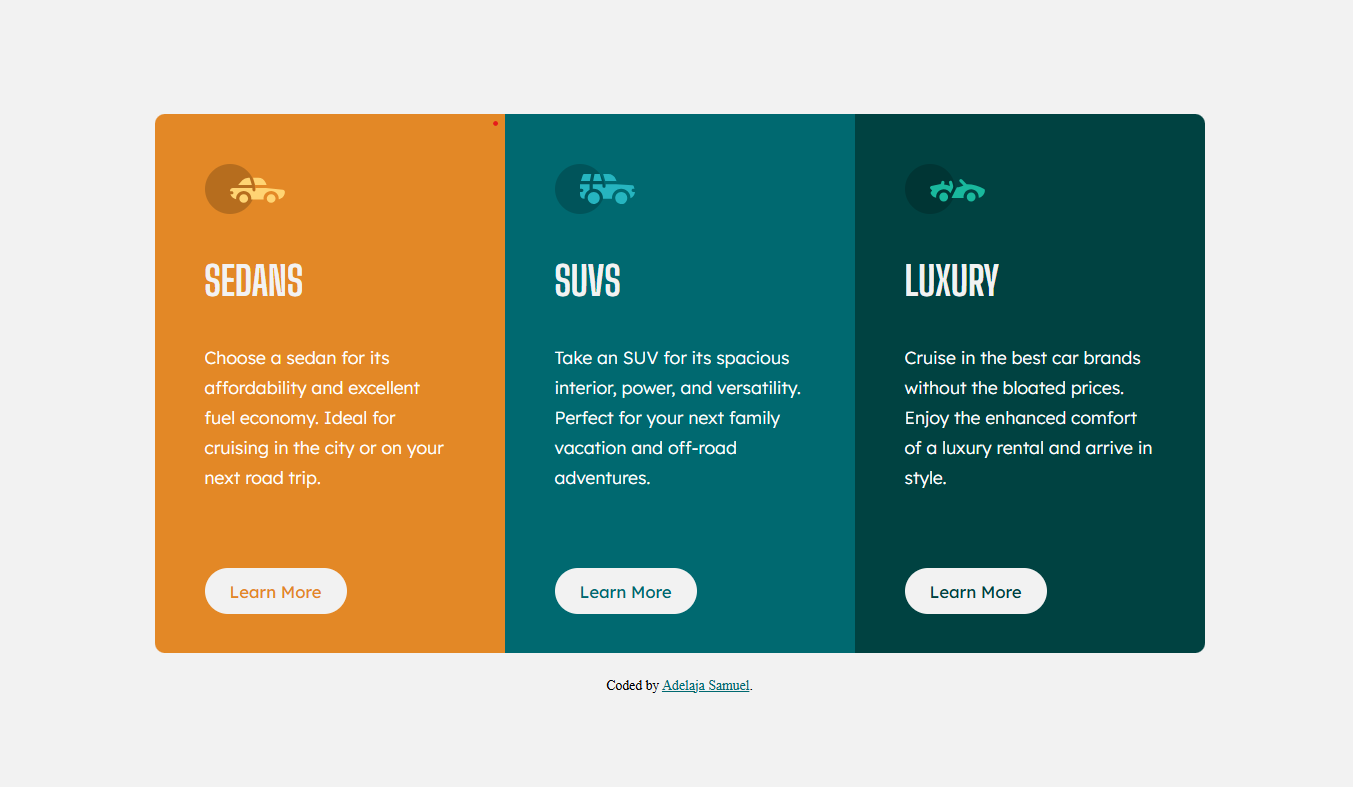
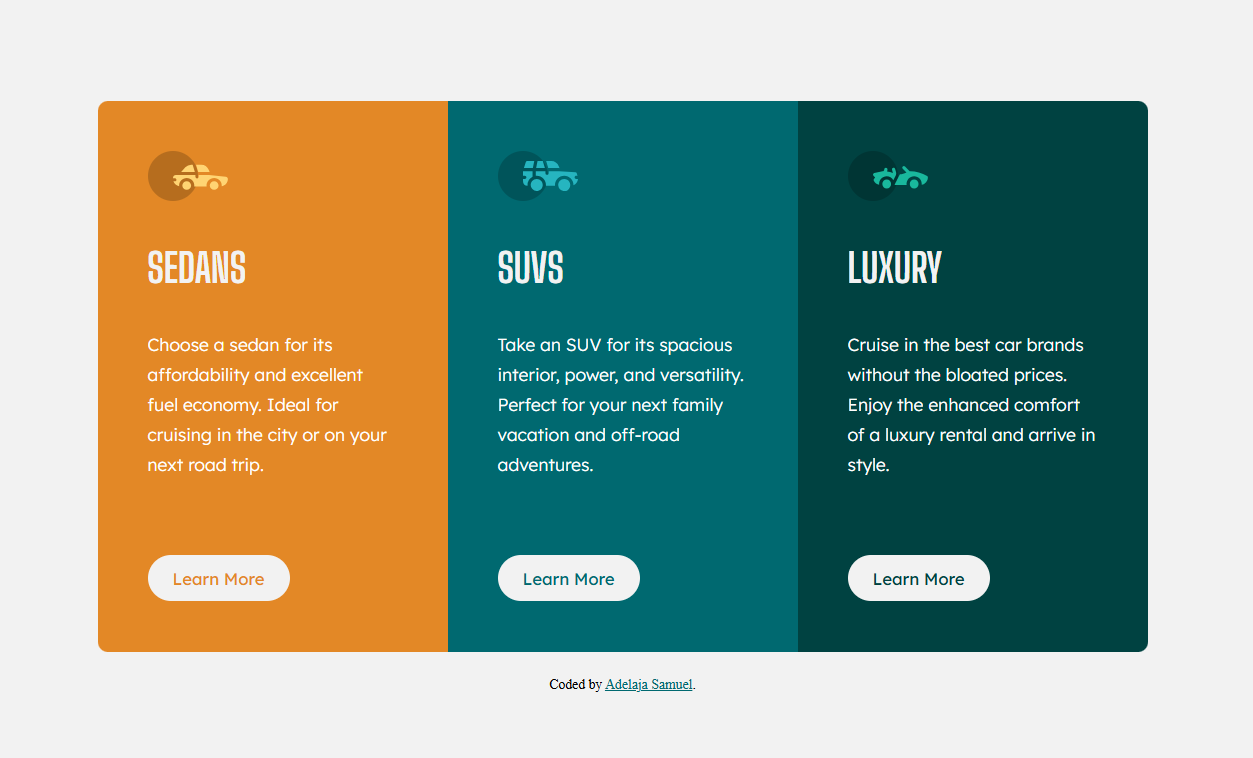
final commit

diff --git a/styles.css b/styles.css
@@ -36,7 +36,7 @@ body {
 }
 
 .sedan, .suv, .luxury {
-    padding: 40px;
+    padding: 40px 40px 50px 40px;
     max-width: 200px;
 }
 

diff --git a/README.md b/README.md
@@ -6,8 +6,8 @@ This is a solution to the [3-column preview card component challenge on Frontend
 
 ### Links
 
-- Solution URL: [Add solution URL here](https://github.com/samuel-faith/Blog-preview-card)
-- Live Site URL: [Add live site URL here](https://samuel-faith.github.io/Blog-preview-card/)
+- Solution URL: [Add solution URL here](https://github.com/samuel-faith/3-column-preview-card-component-main)
+- Live Site URL: [Add live site URL here](https://samuel-faith.github.io/3-column-preview-card-component-main/)
 
 ## My process
 
